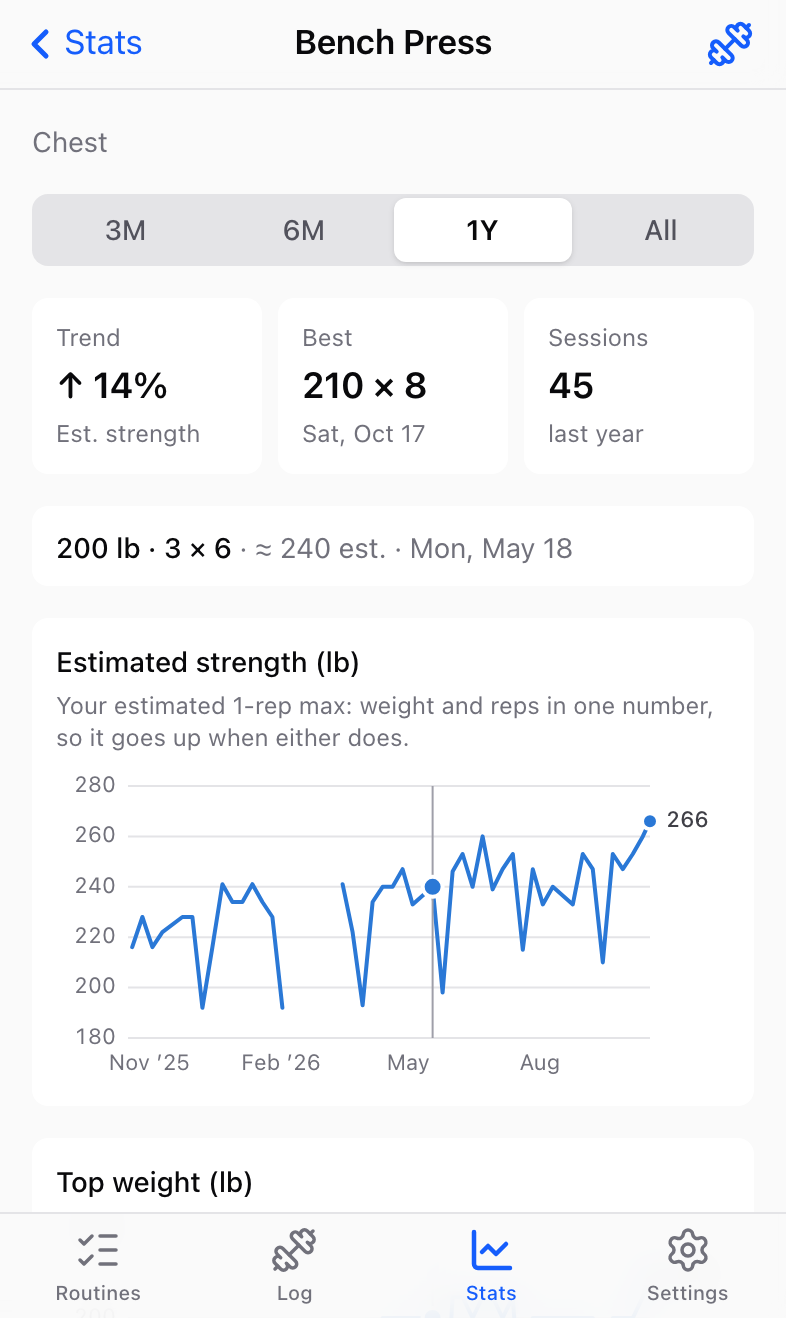
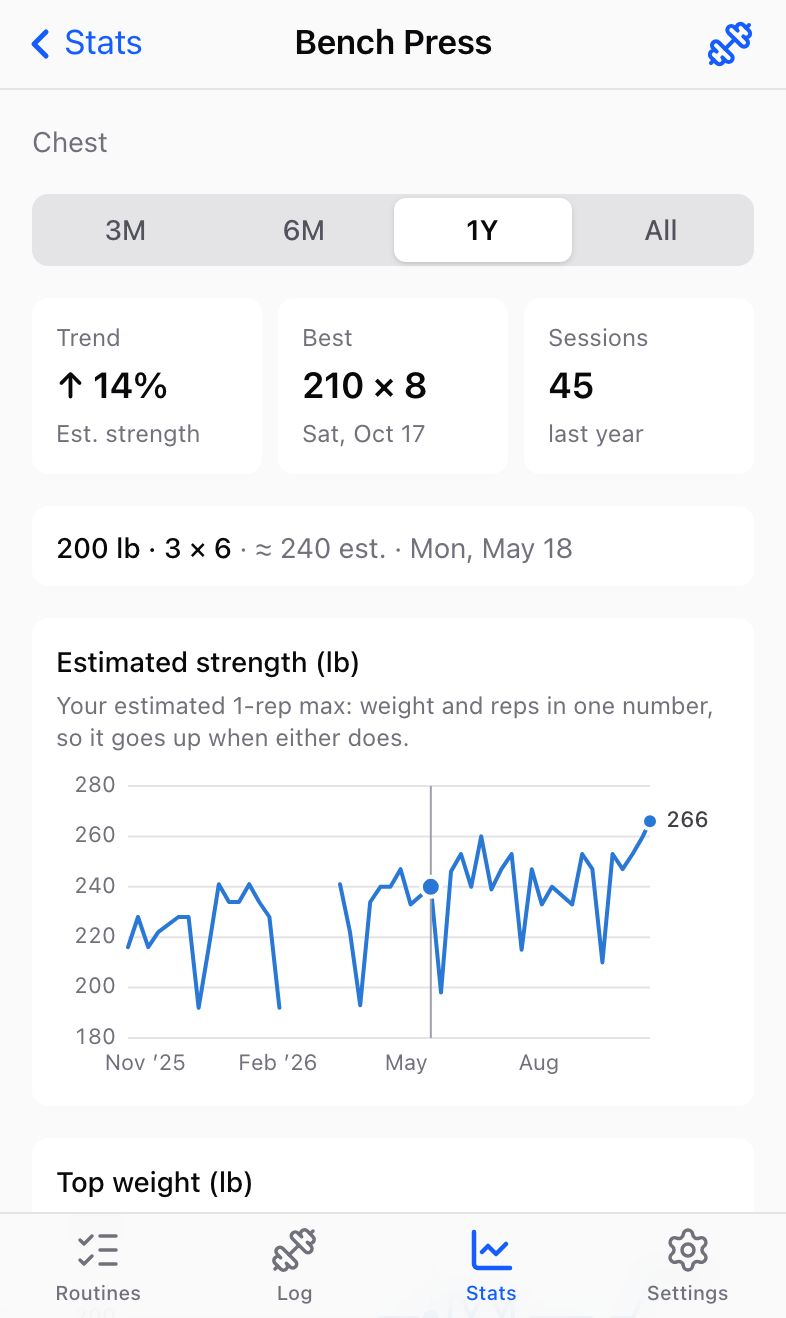
Exercise stats: 3M default, charts fit short histories; fix Log another reset
- Default range is 3M, matching the Progress list on the Stats tab.
- Charts start at the first day logged in the range when that's later
  than the range's start, instead of bunching a short history at the
  right; spans without two month starts label their first and last day.
- With 20 or fewer points, every session gets a dot.
- Log form: after "Log another", the refresh from the previous save could
  land while typing and remount the fields, so the save repeated the
  previous entry. The fields no longer reset on that refresh.

diff --git a/src/components/stats/line-chart.tsx b/src/components/stats/line-chart.tsx
@@ -10,6 +10,9 @@ const HEIGHT = 160;
 const MARGIN = { top: 12, right: 40, bottom: 22, left: 36 };
 // Longer gaps than this (e.g. a vacation) break the line.
 const GAP_DAYS = 28;
+// Up to this many points, each gets a dot so you can see where the sessions
+// are; past it the line alone reads better.
+const MAX_DOTS = 20;
 
 const MONTH_NAMES = ["Jan", "Feb", "Mar", "Apr", "May", "Jun", "Jul", "Aug", "Sep", "Oct", "Nov", "Dec"];
 
@@ -24,6 +27,23 @@ function useWidth() {
     return () => observer.disconnect();
   }, []);
   return [ref, width] as const;
+}
+
+// "Oct 3" for a day number.
+function dayLabel(x: number) {
+  const d = new Date(x * 86_400_000);
+  return `${MONTH_NAMES[d.getUTCMonth()]} ${d.getUTCDate()}`;
+}
+
+// Month ticks between two day numbers, thinned to about 5 labels. Spans with
+// fewer than two month starts get the first and last day instead.
+function xTicks(from: number, to: number) {
+  const months = monthTicks(from, to);
+  if (months.length >= 2 || to - from < 2) return months;
+  return [
+    { x: from, label: dayLabel(from) },
+    { x: to, label: dayLabel(to) },
+  ];
 }
 
 // Month ticks between two day numbers, thinned to about 5 labels.
@@ -132,7 +152,7 @@ export function LineChart({
             </g>
           ))}
 
-          {monthTicks(xMin, xMax).map((tick) => (
+          {xTicks(xMin, xMax).map((tick) => (
             <text
               key={tick.x}
               x={sx(tick.x)}
@@ -152,6 +172,18 @@ export function LineChart({
             strokeLinecap="round"
             className="stroke-[#2a78d6] dark:stroke-[#3987e5]"
           />
+
+          {points.length <= MAX_DOTS &&
+            points.slice(0, -1).map((p) => (
+              <circle
+                key={p.x}
+                cx={sx(p.x)}
+                cy={sy(p.y)}
+                r={4}
+                strokeWidth={2}
+                className="fill-[#2a78d6] stroke-white dark:fill-[#3987e5] dark:stroke-zinc-900"
+              />
+            ))}
 
           {last && (
             <>

diff --git a/src/components/stats/stats-view.tsx b/src/components/stats/stats-view.tsx
@@ -43,12 +43,18 @@ function Tile({ label, value, note }: { label: string; value: string; note: stri
 }
 
 export function StatsView({ entries, today }: { entries: Entry[]; today: string }) {
-  const [range, setRange] = useState<Range>("6M");
+  // 3M, like the Progress list on the Stats tab, so the trends match.
+  const [range, setRange] = useState<Range>("3M");
   const [activeIndex, setActiveIndex] = useState<number | null>(null);
 
   const allDays = summarizeDays(entries);
   const days = daysInRange(allDays, range, today);
-  const start = rangeStart(range, today) ?? allDays[0]?.date ?? today;
+  // The charts start at the range's start, or the first day logged in it if
+  // that's later, so a short history fills the width instead of bunching up
+  // at the right.
+  const rangeFrom = rangeStart(range, today);
+  const firstDay = days[0]?.date ?? today;
+  const start = rangeFrom && rangeFrom > firstDay ? rangeFrom : firstDay;
   const xDomain: [number, number] = [toDayNumber(start), toDayNumber(today)];
 
   const selectRange = (next: Range) => {

diff --git a/src/components/entries/log-form.tsx b/src/components/entries/log-form.tsx
@@ -100,8 +100,11 @@ export function LogForm({
 
   return (
     <form action={formAction} className="flex flex-col gap-3 rounded-lg bg-white p-4 dark:bg-zinc-900">
-      {/* The form unmounts while the card shows, so it comes back fresh. */}
-      <EntryFields key={latestId} defaults={again ?? defaults} />
+      {/* The form unmounts while the card shows, so it comes back fresh.
+          Otherwise it resets when the latest entry changes (say, after editing
+          history) — but not after "Log another": the refresh from the save
+          can land after that, and would wipe what's being typed. */}
+      <EntryFields key={again ? "again" : latestId} defaults={again ?? defaults} />
       {state.error && (
         <p role="alert" className="text-sm text-red-600 dark:text-red-400">
           {state.error}

diff --git a/docs/how-it-works.md b/docs/how-it-works.md
@@ -218,7 +218,7 @@ The top of the **Stats** tab shows what you've done lately across all exercises:
 Below that it lists the exercises you've logged (most recent first, with what
 you did last), since those are the ones with something to show. Pick one, or
 tap the chart icon while logging an exercise.
-Choose a range (3 months, 6 months, 1 year or all) and you get:
+Choose a range (3 months, the default, or 6 months, 1 year or all) and you get:
 
 - **Trend**: whether you're getting stronger (↑), holding steady (→ Flat) or
   weaker (↓) over that range, as a percentage. Changes under 2.5% count as
